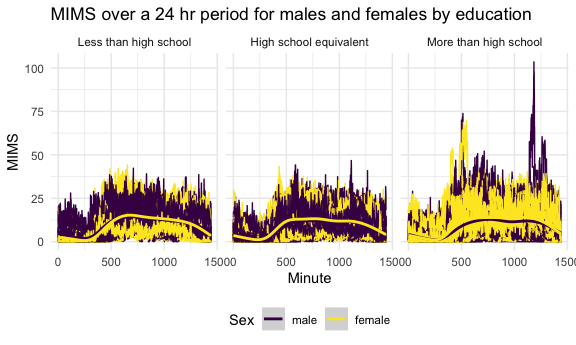
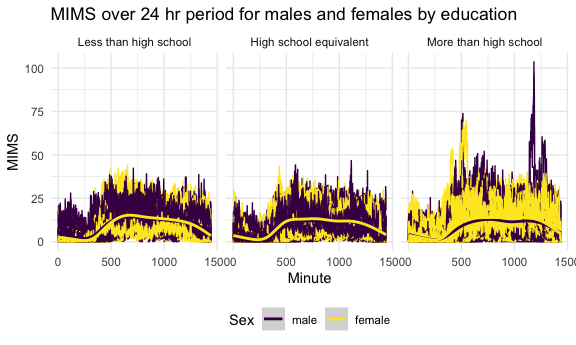
title update

Changed region(s): [[0.2188, 0.0, 0.9375, 0.058]]

diff --git a/p8105_hw3_sdc2157.md b/p8105_hw3_sdc2157.md
@@ -388,7 +388,7 @@ combined_accel |>
   geom_line() +
   geom_smooth(aes(group = sex)) +
   labs(
-    title = "MIMS over a 24 hr period for males and females by education",
+    title = "MIMS over 24 hr period for males and females by education",
     x = "Minute",
     y = "MIMS",
     color = "Sex") +
